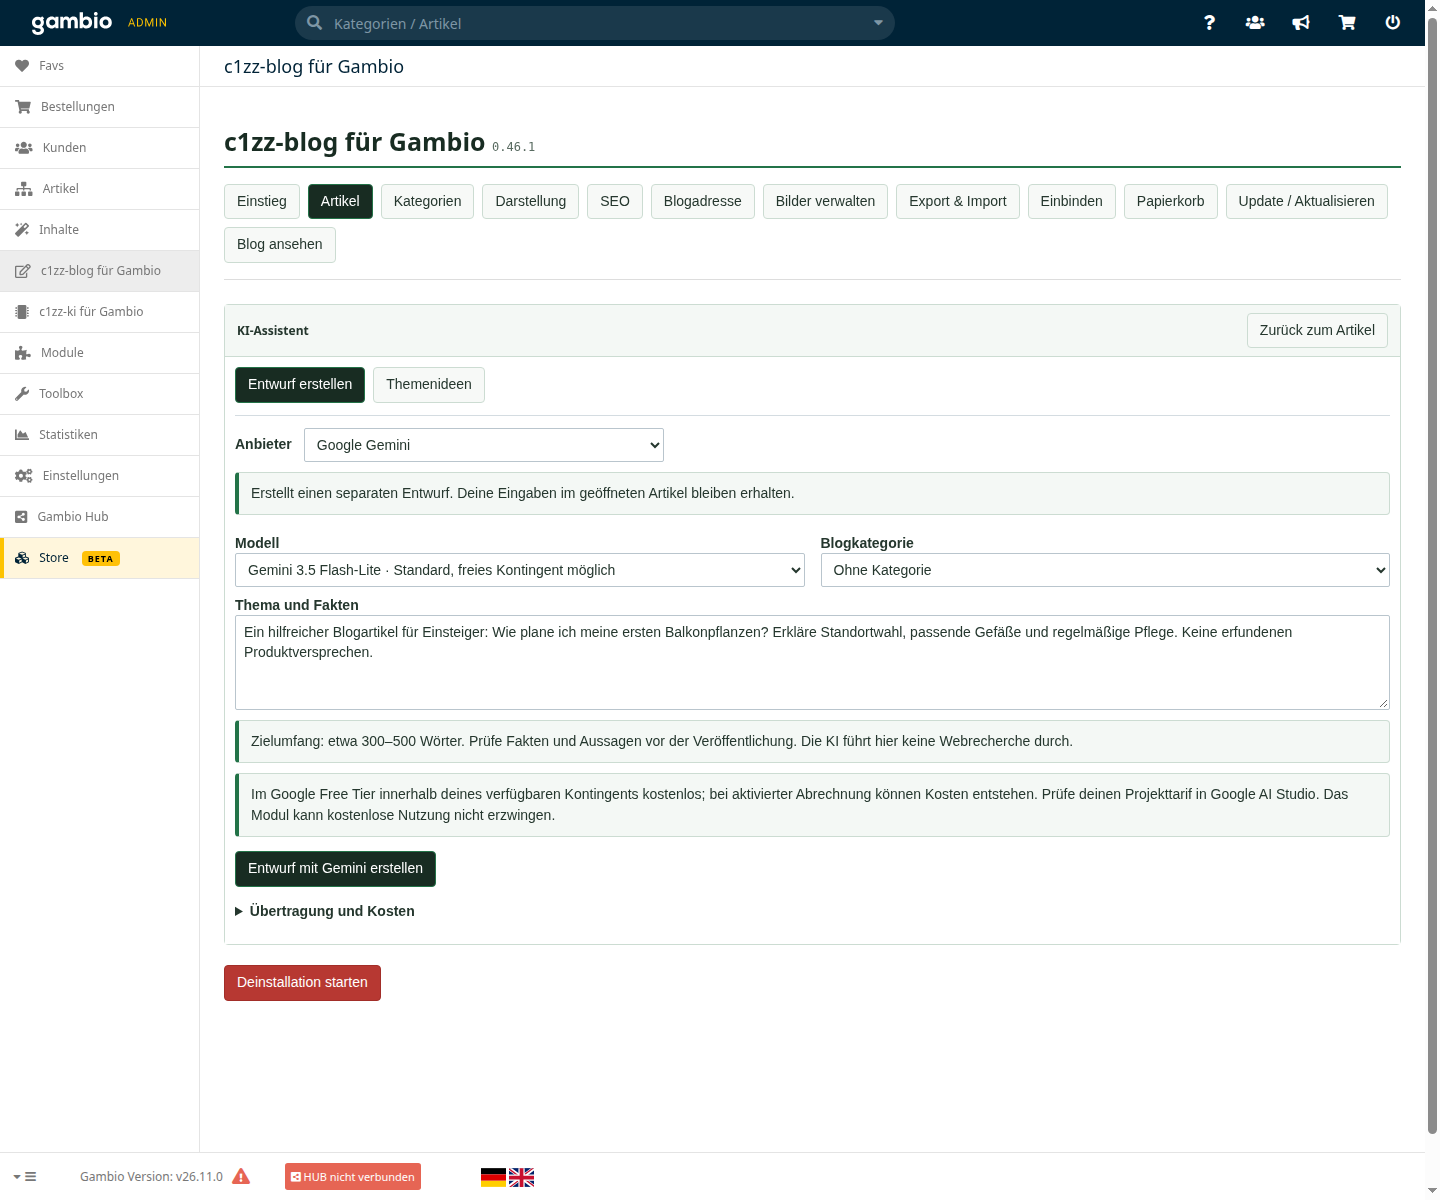
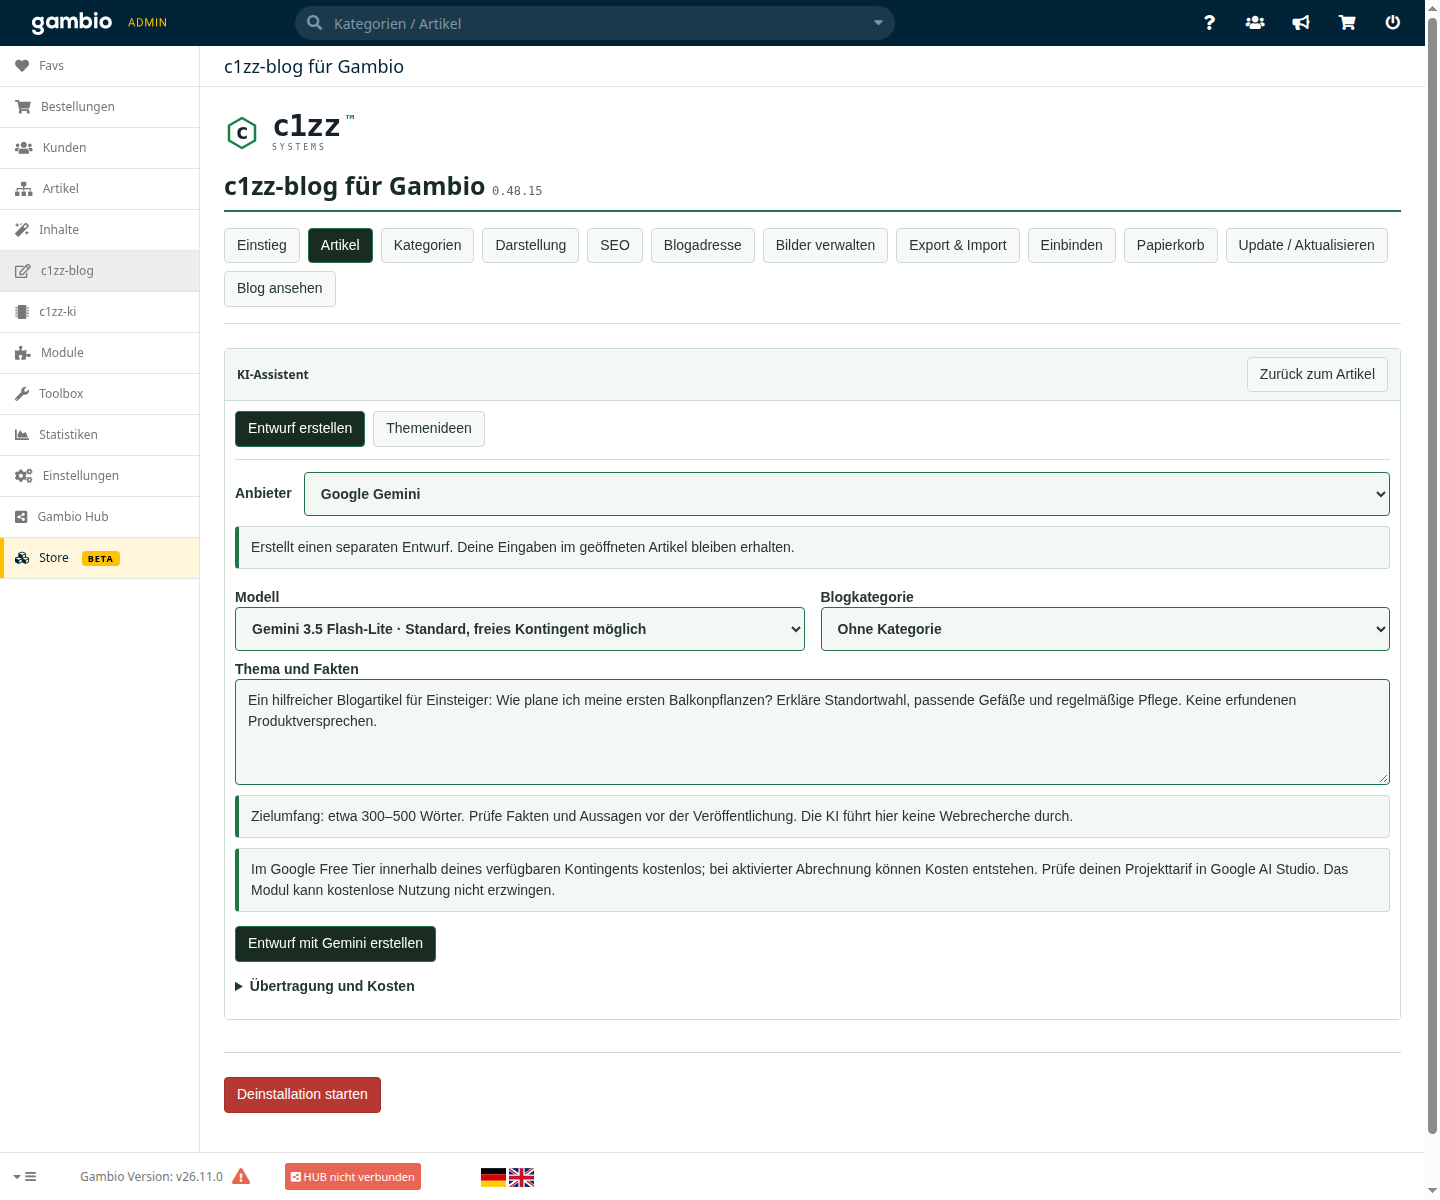
Refresh all screenshots for KI 0.12.6

diff --git a/docs/BILDERRUNDGANG.md b/docs/BILDERRUNDGANG.md
@@ -1,8 +1,8 @@
 # c1zz-ki für Gambio – Bilderrundgang
 
-**0.12.6-rc.1 · Modulstand 0.11.1 · Blog 0.46.1**
+**0.12.6-rc.1 · Modulstand 0.12.6 · Blog 0.48.15**
 
-Alle Abbildungen wurden am 10.11.2026 neu aufgenommen. Sieben Ansichten zeigen den Arbeitsablauf im lokalen GX26-Testshop. Die redaktionellen Beispieltexte und Shopangaben wurden ausschließlich für die Abbildungen in der Browseransicht eingesetzt. Keine gespeicherten Nutzerdaten wurden dadurch geändert. API-Schlüsselfelder sind leer; die Aufnahmen lösten keine KI-Anfragen aus.
+Alle Abbildungen wurden am 11.11.2026 neu aufgenommen. Sieben Ansichten zeigen den Arbeitsablauf im lokalen GX26-Testshop. Die redaktionellen Beispieltexte und Shopangaben wurden ausschließlich für die Abbildungen in der Browseransicht eingesetzt. Keine gespeicherten Nutzerdaten wurden dadurch geändert. API-Schlüsselfelder sind leer; die Aufnahmen lösten keine KI-Anfragen aus.
 
 ## 1. Bereiche und Anbieter verwalten
 
@@ -46,6 +46,6 @@ Die Updateverwaltung zeigt die installierte Version, den letzten Prüfstatus und
 
 [![KI-Versionsstatus und Einstellungen für automatische Updatehinweise](images/aktualisieren.png)](images/aktualisieren.png)
 
-Die Aufnahme **Update / Aktualisieren** wurde mit KI **0.12.0** erneuert. Sie zeigt den reproduzierbar gesetzten Cachezustand „aktuell“, die automatische Prüfung und die gespeicherte Testversionsauswahl; kein Update wurde dafür gestartet. Die übrigen Ansichten bleiben auf dem oben genannten Bildstand.
+Die Aufnahme **Update / Aktualisieren** zeigt mit KI **0.12.6** den vorhandenen Prüfstatus und den abgeschlossenen Updateablauf. Für die Aufnahme wurde weder erneut gesucht noch ein Update gestartet.
 
-Die Aufnahmen zeigen den ausdrücklich genannten älteren Modulstand. Neue Logo-, Eingabe- und Layoutoptionen dieses Releases sind in den [Release Notes](../RELEASE_NOTES.md) beschrieben.
+Alle sieben Aufnahmen zeigen den veröffentlichten Modulstand 0.12.6 zusammen mit Blog 0.48.15. Aufnahmedatum, Versionen und Bildprüfsummen stehen in [screenshots.json](screenshots.json).

diff --git a/README.md b/README.md
@@ -12,7 +12,7 @@ Neue Themen finden und Blogentwürfe erstellen, direkt in **c1zz-blog für Gambi
 
 ![Gemini im Blogassistenten: Modellwahl, Auftrag und Entwurfserstellung](docs/images/blogentwurf.png)
 
-Die bisherigen Funktionsansichten wurden am **10.11.2026 mit KI 0.11.1 und Blog 0.46.1** erneuert. Der [Bilderrundgang](docs/BILDERRUNDGANG.md) zeigt auch die Updateverwaltung.
+Alle sieben Funktionsansichten wurden am **11.11.2026 mit KI 0.12.6 und Blog 0.48.15** neu aufgenommen. Der [Bilderrundgang](docs/BILDERRUNDGANG.md) zeigt auch die Updateverwaltung.
 
 ## Vertrauen vor Installation
 
